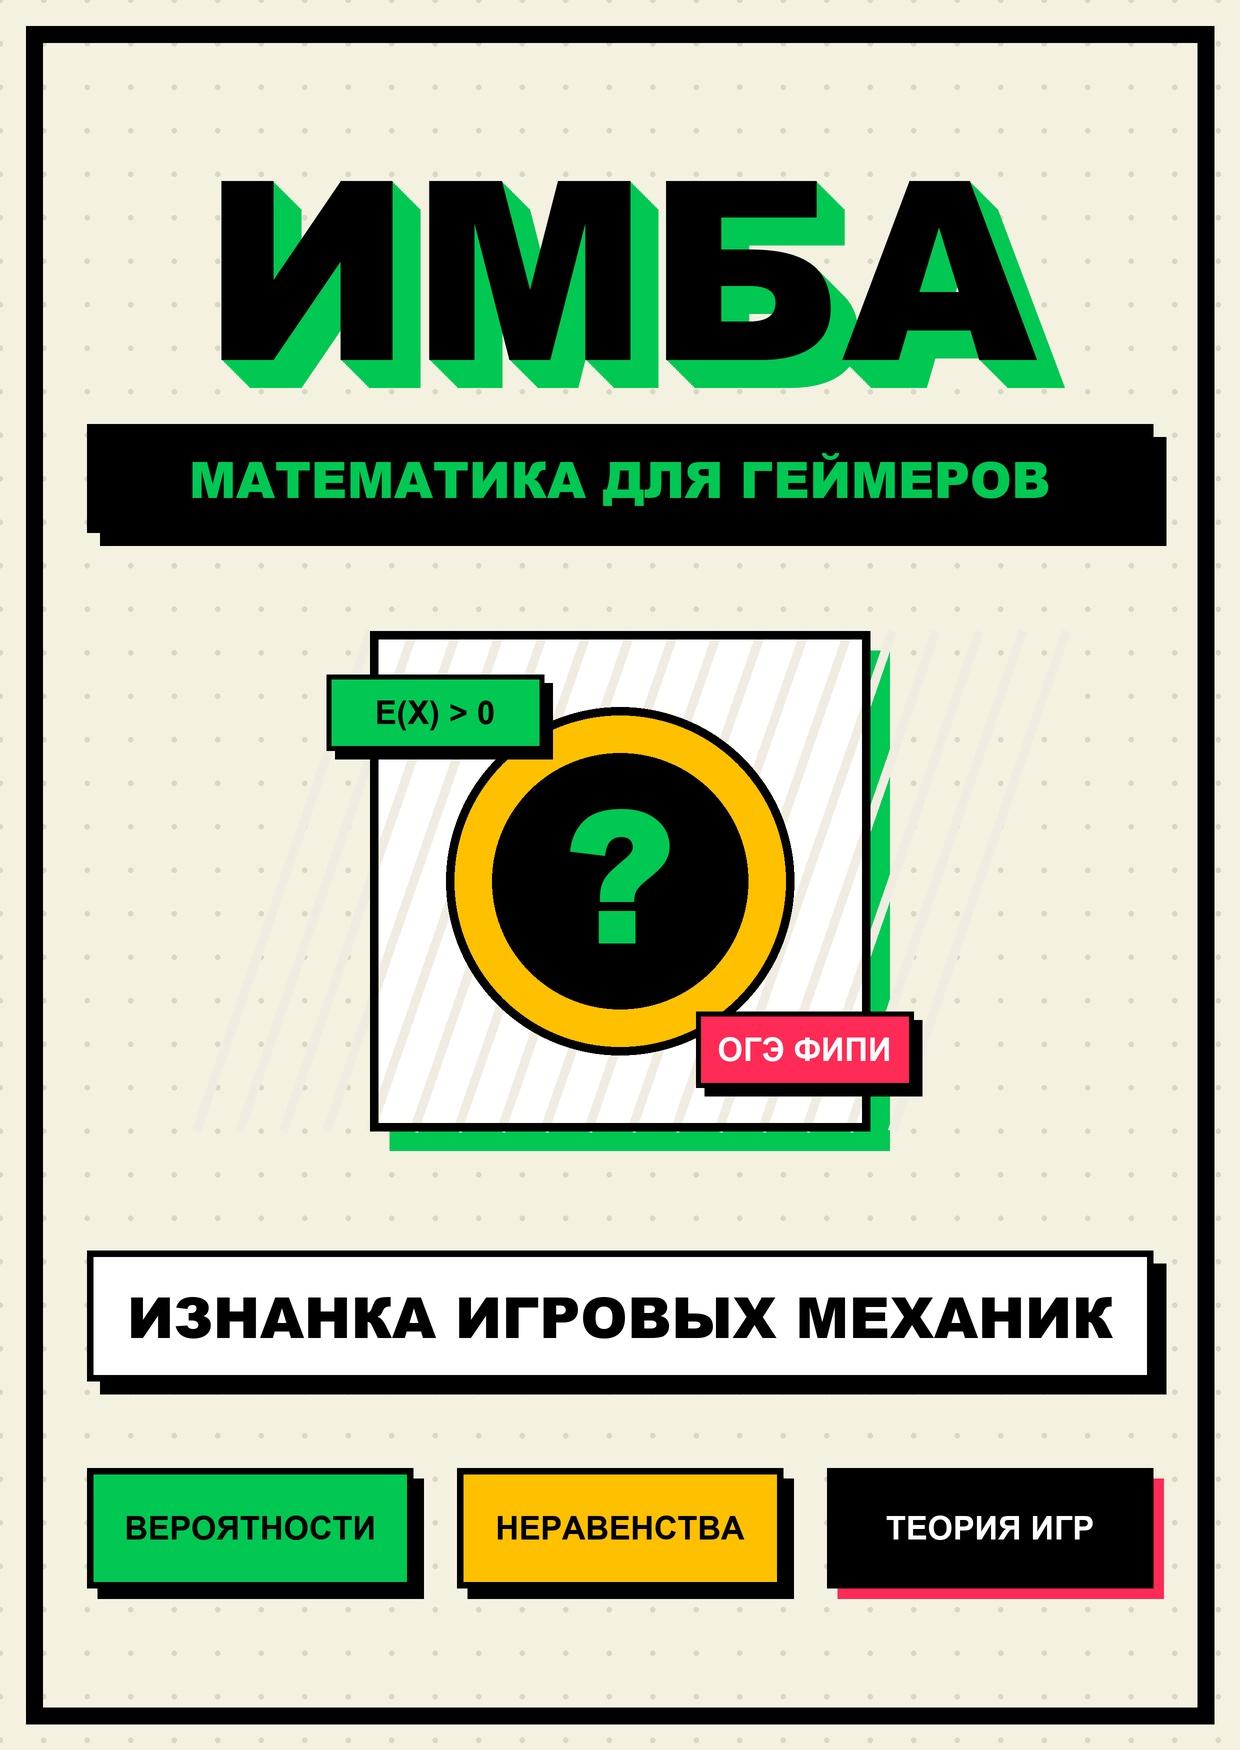
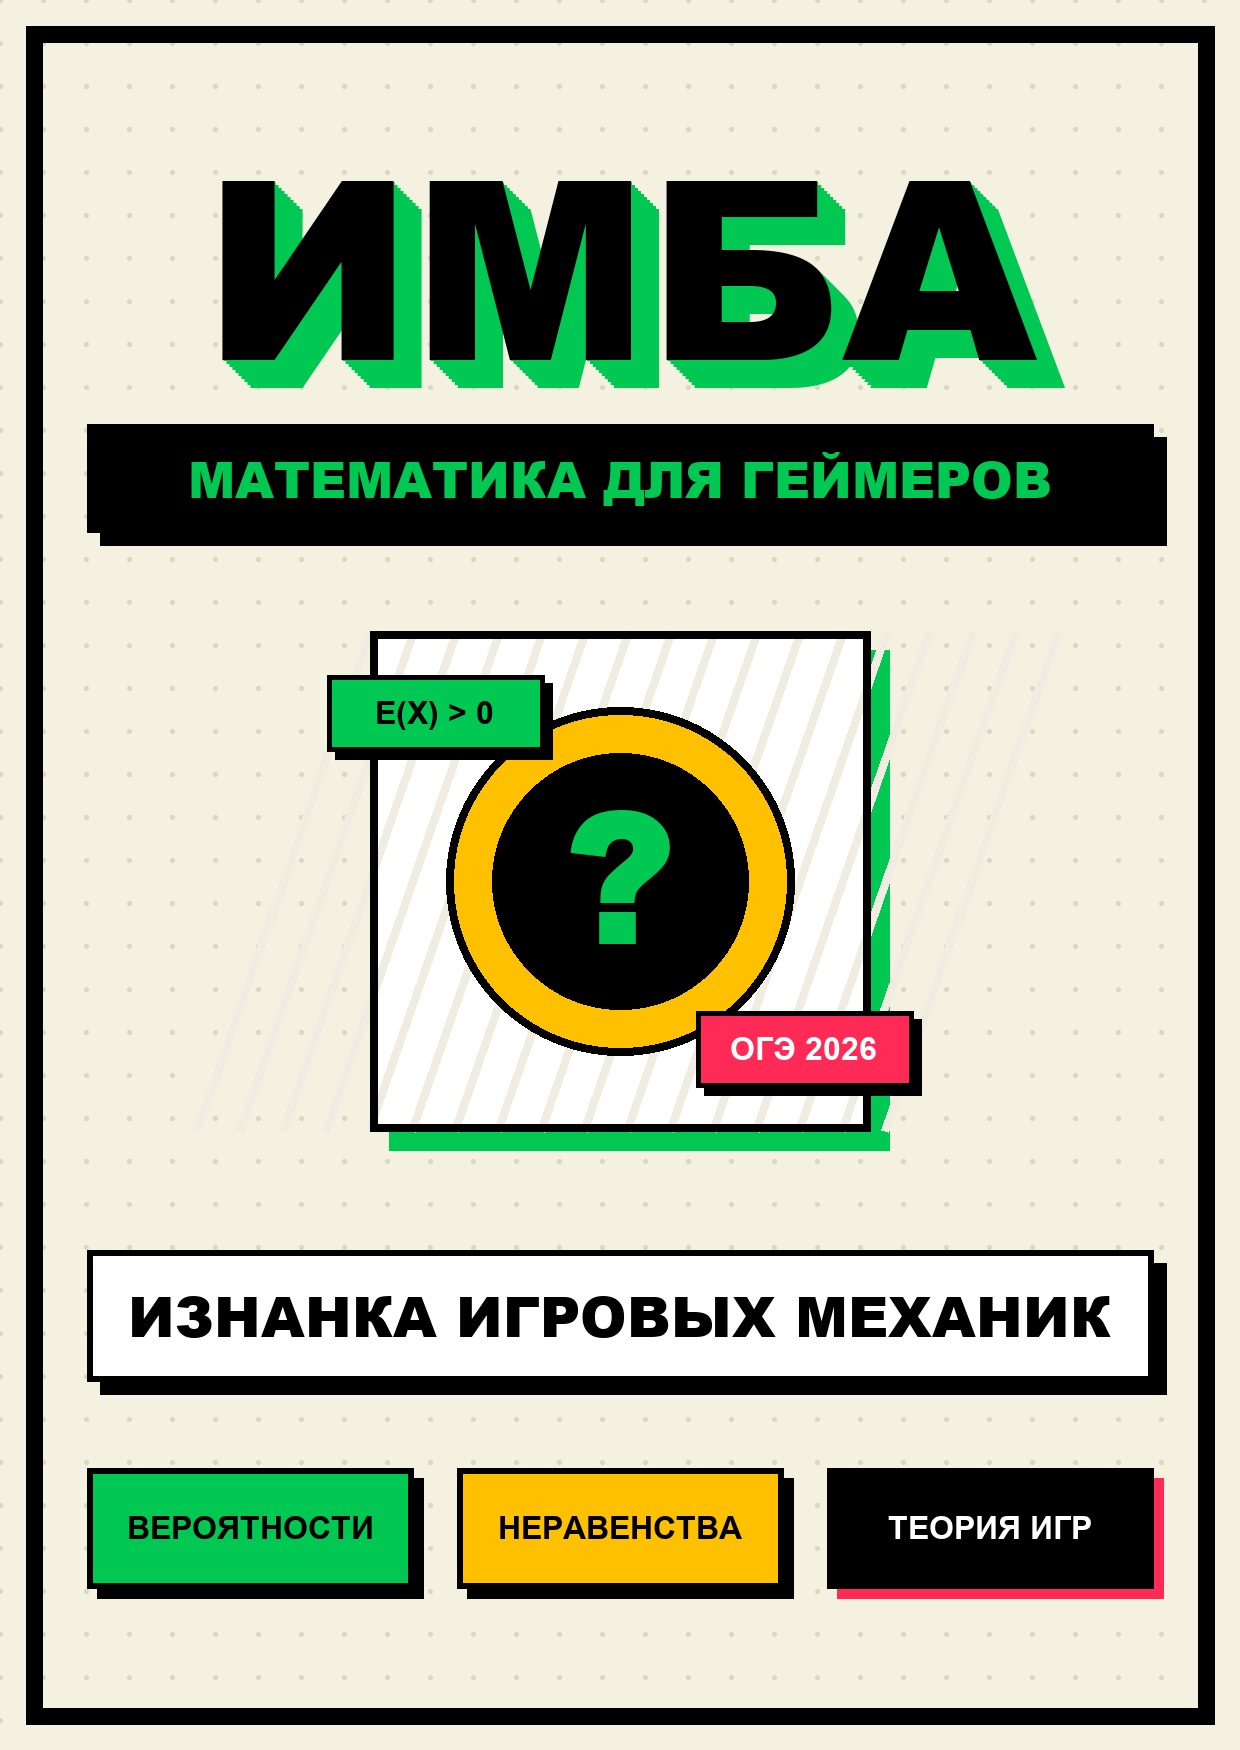
feat: complete removal of FIPI mentions, add 3500x2480 project spreads in JPEG

diff --git a/module10.html b/module10.html
@@ -376,7 +376,7 @@
     <div class="story-card" style="box-shadow: 6px 6px 0px var(--blue);">
         <h3 style="font-size: clamp(1.2rem, 3.5vw, 1.8rem);">ТАБЛИЦА S-v-t: 2 БАЛЛА ВО 2 ЧАСТИ</h3>
         <p style="font-weight: 700; margin-top: 10px; line-height: 1.6; font-size: 0.95rem;">
-            Задание <strong>№21 ОГЭ</strong> требует строгого оформления. Эксперты ФИПИ снимут балл, если не ввести переменную или потерять физический смысл (скорость не может быть отрицательной).
+            Задание <strong>№21 ОГЭ</strong> требует строгого оформления. Эксперты ОГЭ снимут балл, если не ввести переменную или потерять физический смысл (скорость не может быть отрицательной).
         </p>
 
         <!-- TABLE REFERENCE -->
@@ -438,13 +438,13 @@
         <a href="index.html" class="exit-btn" title="Вернуться к карте">✕</a>
         <div class="progress-track">
             <div class="progress-fill" style="width: 100%;"></div>
-            <div class="progress-label">ШАГ 3 ИЗ 3 • ТРЕНАЖЕР ФИПИ</div>
+            <div class="progress-label">ШАГ 3 ИЗ 3 • ТРЕНАЖЕР ОГЭ</div>
         </div>
     </div>
 
     <div class="story-card" style="box-shadow: 6px 6px 0px var(--accent);">
         <div style="display:flex; justify-content:space-between; align-items:center; flex-wrap:wrap; gap:6px;">
-            <h3 style="font-size: clamp(1.1rem, 3.5vw, 1.5rem);">ЗАДАНИЕ ОГЭ №21 (ФИПИ)</h3>
+            <h3 style="font-size: clamp(1.1rem, 3.5vw, 1.5rem);">ЗАДАНИЕ ОГЭ №21 (ОГЭ)</h3>
             <span style="background:var(--accent); color:#000; font-family:'Roboto Mono',monospace; padding:3px 8px; font-weight:900; font-size:0.75rem; border:2px solid #000;">ОГЭ 2026 • 2 БАЛЛА</span>
         </div>
 

diff --git a/module11.html b/module11.html
@@ -463,13 +463,13 @@
         <a href="index.html" class="exit-btn" title="Вернуться к карте">✕</a>
         <div class="progress-track">
             <div class="progress-fill" style="width: 100%;"></div>
-            <div class="progress-label">ШАГ 3 ИЗ 3 • ТРЕНАЖЕР ФИПИ</div>
+            <div class="progress-label">ШАГ 3 ИЗ 3 • ТРЕНАЖЕР ОГЭ</div>
         </div>
     </div>
 
     <div class="story-card" style="box-shadow: 6px 6px 0px var(--accent);">
         <div style="display:flex; justify-content:space-between; align-items:center; flex-wrap:wrap; gap:6px;">
-            <h3 style="font-size: clamp(1.1rem, 3.5vw, 1.5rem);">ЗАДАНИЕ ОГЭ №21 (ФИПИ)</h3>
+            <h3 style="font-size: clamp(1.1rem, 3.5vw, 1.5rem);">ЗАДАНИЕ ОГЭ №21 (ОГЭ)</h3>
             <span style="background:var(--accent); color:#000; font-family:'Roboto Mono',monospace; padding:3px 8px; font-weight:900; font-size:0.75rem; border:2px solid #000;">ОГЭ 2026 • 2 БАЛЛА</span>
         </div>
 

diff --git a/module6.html b/module6.html
@@ -393,14 +393,14 @@
         <a href="index.html" class="exit-btn" title="Вернуться к карте">✕</a>
         <div class="progress-track">
             <div class="progress-fill" style="width: 100%;"></div>
-            <div class="progress-label">ШАГ 3 ИЗ 3 • ТРЕНАЖЕР ФИПИ</div>
+            <div class="progress-label">ШАГ 3 ИЗ 3 • ТРЕНАЖЕР ОГЭ</div>
         </div>
 
     </div>
 
     <div class="story-card" style="box-shadow: 6px 6px 0px var(--accent);">
         <div style="display:flex; justify-content:space-between; align-items:center; flex-wrap:wrap; gap:6px;">
-            <h3 style="font-size: clamp(1.1rem, 3.5vw, 1.5rem);">ЗАДАНИЕ ОГЭ №12 (ФИПИ)</h3>
+            <h3 style="font-size: clamp(1.1rem, 3.5vw, 1.5rem);">ЗАДАНИЕ ОГЭ №12 (ОГЭ)</h3>
             <span style="background:var(--accent); color:#000; font-family:'Roboto Mono',monospace; padding:3px 8px; font-weight:900; font-size:0.75rem; border:2px solid #000;">ОГЭ 2026</span>
         </div>
 

diff --git a/module7.html b/module7.html
@@ -397,14 +397,14 @@
         <a href="index.html" class="exit-btn" title="Вернуться к карте">✕</a>
         <div class="progress-track">
             <div class="progress-fill" style="width: 100%;"></div>
-            <div class="progress-label">ШАГ 3 ИЗ 3 • ТРЕНАЖЕР ФИПИ</div>
+            <div class="progress-label">ШАГ 3 ИЗ 3 • ТРЕНАЖЕР ОГЭ</div>
         </div>
 
     </div>
 
     <div class="story-card" style="box-shadow: 6px 6px 0px var(--accent);">
         <div style="display:flex; justify-content:space-between; align-items:center; flex-wrap:wrap; gap:6px;">
-            <h3 style="font-size: clamp(1.1rem, 3.5vw, 1.5rem);">ЗАДАНИЕ ОГЭ №11 (ФИПИ)</h3>
+            <h3 style="font-size: clamp(1.1rem, 3.5vw, 1.5rem);">ЗАДАНИЕ ОГЭ №11 (ОГЭ)</h3>
             <span style="background:var(--accent); color:#000; font-family:'Roboto Mono',monospace; padding:3px 8px; font-weight:900; font-size:0.75rem; border:2px solid #000;">ОГЭ 2026</span>
         </div>
 

diff --git a/module8.html b/module8.html
@@ -386,14 +386,14 @@
         <a href="index.html" class="exit-btn" title="Вернуться к карте">✕</a>
         <div class="progress-track">
             <div class="progress-fill" style="width: 100%;"></div>
-            <div class="progress-label">ШАГ 3 ИЗ 3 • ТРЕНАЖЕР ФИПИ</div>
+            <div class="progress-label">ШАГ 3 ИЗ 3 • ТРЕНАЖЕР ОГЭ</div>
         </div>
 
     </div>
 
     <div class="story-card" style="box-shadow: 6px 6px 0px var(--accent);">
         <div style="display:flex; justify-content:space-between; align-items:center; flex-wrap:wrap; gap:6px;">
-            <h3 style="font-size: clamp(1.1rem, 3.5vw, 1.5rem);">ЗАДАНИЕ ОГЭ №18 (ФИПИ)</h3>
+            <h3 style="font-size: clamp(1.1rem, 3.5vw, 1.5rem);">ЗАДАНИЕ ОГЭ №18 (ОГЭ)</h3>
             <span style="background:var(--accent); color:#000; font-family:'Roboto Mono',monospace; padding:3px 8px; font-weight:900; font-size:0.75rem; border:2px solid #000;">ОГЭ 2026</span>
         </div>
 

diff --git a/module12.html b/module12.html
@@ -395,13 +395,13 @@
         <a href="index.html" class="exit-btn" title="Вернуться к карте">✕</a>
         <div class="progress-track">
             <div class="progress-fill" style="width: 100%;"></div>
-            <div class="progress-label">ШАГ 3 ИЗ 3 • ТРЕНАЖЕР ФИПИ</div>
+            <div class="progress-label">ШАГ 3 ИЗ 3 • ТРЕНАЖЕР ОГЭ</div>
         </div>
     </div>
 
     <div class="story-card" style="box-shadow: 6px 6px 0px var(--accent);">
         <div style="display:flex; justify-content:space-between; align-items:center; flex-wrap:wrap; gap:6px;">
-            <h3 style="font-size: clamp(1.1rem, 3.5vw, 1.5rem);">ЗАДАНИЕ ОГЭ №19 (ФИПИ)</h3>
+            <h3 style="font-size: clamp(1.1rem, 3.5vw, 1.5rem);">ЗАДАНИЕ ОГЭ №19 (ОГЭ)</h3>
             <span style="background:var(--accent); color:#000; font-family:'Roboto Mono',monospace; padding:3px 8px; font-weight:900; font-size:0.75rem; border:2px solid #000;">ОГЭ 2026</span>
         </div>
 

diff --git a/module9.html b/module9.html
@@ -383,13 +383,13 @@
         <a href="index.html" class="exit-btn" title="Вернуться к карте">✕</a>
         <div class="progress-track">
             <div class="progress-fill" style="width: 100%;"></div>
-            <div class="progress-label">ШАГ 3 ИЗ 3 • ТРЕНАЖЕР ФИПИ</div>
+            <div class="progress-label">ШАГ 3 ИЗ 3 • ТРЕНАЖЕР ОГЭ</div>
         </div>
     </div>
 
     <div class="story-card" style="box-shadow: 6px 6px 0px var(--accent);">
         <div style="display:flex; justify-content:space-between; align-items:center; flex-wrap:wrap; gap:6px;">
-            <h3 style="font-size: clamp(1.1rem, 3.5vw, 1.5rem);">ЗАДАНИЕ ОГЭ №15 (ФИПИ)</h3>
+            <h3 style="font-size: clamp(1.1rem, 3.5vw, 1.5rem);">ЗАДАНИЕ ОГЭ №15 (ОГЭ)</h3>
             <span style="background:var(--accent); color:#000; font-family:'Roboto Mono',monospace; padding:3px 8px; font-weight:900; font-size:0.75rem; border:2px solid #000;">ОГЭ 2026</span>
         </div>
 

diff --git a/module1.html b/module1.html
@@ -566,7 +566,7 @@
     <div class="glass-panel oge-card hidden" id="ogeCard">
         <div style="display:flex; justify-content:space-between; align-items:center;">
             <h3 style="color: var(--text); font-size: 2rem;">ПРОВЕРЬ СЕБЯ: ЗАДАНИЕ ОГЭ №10</h3>
-            <span style="background:var(--success); color:#000; font-family:'Roboto Mono',monospace; padding:4px 10px; font-weight:900; border:2px solid #000;">ФИПИ ТРЕНАЖЕР</span>
+            <span style="background:var(--success); color:#000; font-family:'Roboto Mono',monospace; padding:4px 10px; font-weight:900; border:2px solid #000;">ОГЭ ТРЕНАЖЕР</span>
         </div>
         
         <div style="background: #fff; padding: 20px; border: var(--border); margin: 20px 0; font-weight: 700; box-shadow: 4px 4px 0px #000;">

diff --git a/module3.html b/module3.html
@@ -556,7 +556,7 @@
     <div class="story-card" style="box-shadow: 8px 8px 0px var(--accent);">
         <div style="display:flex; justify-content:space-between; align-items:center;">
             <h3 style="font-size: 1.6rem;">ПРОВЕРЬ СЕБЯ: ЗАДАНИЕ ОГЭ №4</h3>
-            <span style="background:var(--accent); color:#000; font-family:'Roboto Mono',monospace; padding:4px 8px; font-weight:900; border:2px solid #000;">ФИПИ ТРЕНАЖЕР</span>
+            <span style="background:var(--accent); color:#000; font-family:'Roboto Mono',monospace; padding:4px 8px; font-weight:900; border:2px solid #000;">ОГЭ ТРЕНАЖЕР</span>
         </div>
         
         <p style="font-weight: 700; margin-top: 15px; font-size: 1.1rem;">

diff --git a/module4.html b/module4.html
@@ -340,7 +340,7 @@
     <div class="story-card" style="box-shadow: 8px 8px 0px var(--danger);">
         <div style="display:flex; justify-content:space-between; align-items:center;">
             <h3 style="font-size: 1.6rem;">ПРОВЕРЬ СЕБЯ: ЗАДАНИЕ ОГЭ №21</h3>
-            <span style="background:var(--danger); color:#fff; font-family:'Roboto Mono',monospace; padding:4px 8px; font-weight:900; border:2px solid #000;">ФИПИ 2 ЧАСТЬ</span>
+            <span style="background:var(--danger); color:#fff; font-family:'Roboto Mono',monospace; padding:4px 8px; font-weight:900; border:2px solid #000;">ОГЭ 2 ЧАСТЬ</span>
         </div>
         
         <p style="font-weight: 700; margin-top: 15px; font-size: 1.1rem;">

diff --git a/module2.html b/module2.html
@@ -420,7 +420,7 @@
     <div class="story-card" style="box-shadow: 8px 8px 0px var(--danger);">
         <div style="display:flex; justify-content:space-between; align-items:center;">
             <h3 style="font-size: 1.6rem;">ПРОВЕРЬ СЕБЯ: ЗАДАНИЕ ОГЭ №13</h3>
-            <span style="background:var(--danger); color:#fff; font-family:'Roboto Mono',monospace; padding:4px 8px; font-weight:900;">ФИПИ ТРЕНАЖЕР</span>
+            <span style="background:var(--danger); color:#fff; font-family:'Roboto Mono',monospace; padding:4px 8px; font-weight:900;">ОГЭ ТРЕНАЖЕР</span>
         </div>
         
         <p style="font-weight: 700; margin-top: 15px; font-size: 1.1rem;">
